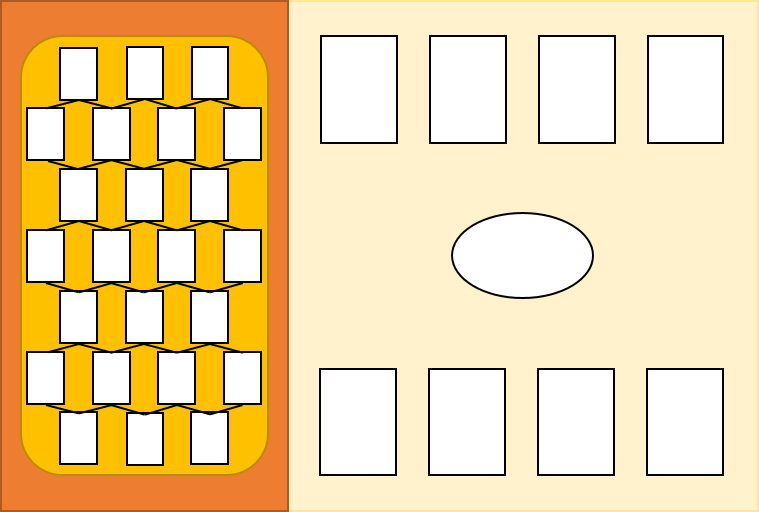
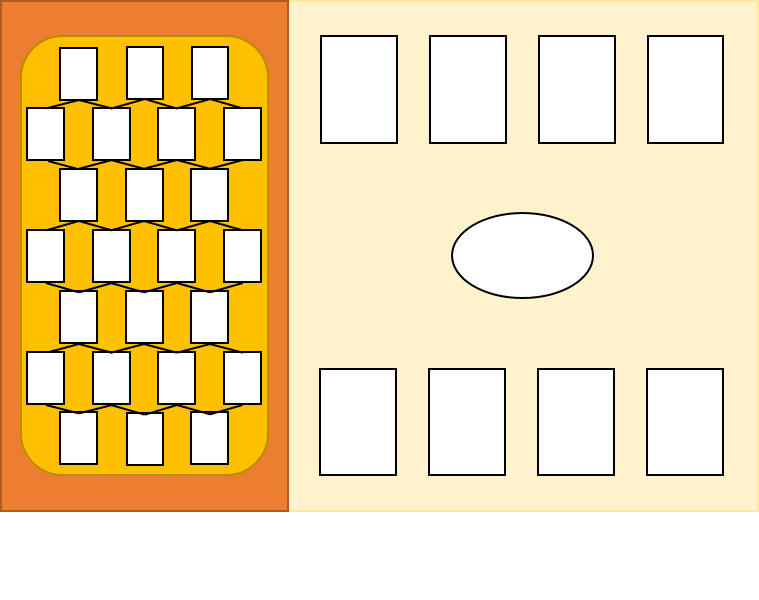
2017-05-26 backup

diff --git a/RCK.py b/RCK.py
@@ -3,7 +3,7 @@ from pygame.locals import *
 
 FPS = 30 # 초당 프레임
 WINDOWWIDTH = 759 # 윈도우의 너비 (이하 픽셀 단위)
-WINDOWHEIGHT = 512 # 윈도우의 높이
+WINDOWHEIGHT = 600 # 윈도우의 높이
 CARDWIDTH = 77 # 카드의 너비
 CARDHEIGHT = 108 # 카드의 높이
 CARDGAPWIDTH = 32 #카드 사이의 가로 간격
@@ -33,12 +33,15 @@ HIGHLIGHTPIECECOLOR2 = YELLOW
 ROCK = 'rock'
 SCISSOR = 'scissor'
 PAPER = 'paper'
-
+PLAYER1 = 0
+PLAYER2 = 1
     
 def main():
-    global DISPLAYSURF, ROCKCARD, SCISSORCARD, PAPERCARD
+    global DISPLAYSURF, FPSCLOCK, BOARD, UNCLICKEDBUTTON, CLICKEDBUTTON
+    global ROCKCARD, SCISSORCARD, PAPERCARD
     global ROCKPIECE_0, SCISSORPIECE_0, PAPERPIECE_0, ROCKPIECE_1, SCISSORPIECE_1, PAPERPIECE_1
-
+    global PLAYER1WIN, PLAYER2WIN
+    
     pygame.init()
     FPSCLOCK = pygame.time.Clock()
     DISPLAYSURF = pygame.display.set_mode((WINDOWWIDTH, WINDOWHEIGHT))
@@ -48,7 +51,7 @@ def main():
     ROCKCARD = pygame.image.load('rockCard.png')
     SCISSORCARD = pygame.image.load('scissorCard.png')
     PAPERCARD = pygame.image.load('paperCard.png')
-    BUTTON = pygame.image.load('okButton.png')
+    UNCLICKEDBUTTON = pygame.image.load('okButton.png')
     CLICKEDBUTTON = pygame.image.load('okButtonClicked.png')
     ROCKPIECE_0 = pygame.image.load('rockPiece0.png')
     SCISSORPIECE_0 = pygame.image.load('scissorPiece0.png')
@@ -56,22 +59,69 @@ def main():
     ROCKPIECE_1 = pygame.image.load('rockPiece1.png')
     SCISSORPIECE_1 = pygame.image.load('scissorPiece1.png')
     PAPERPIECE_1 = pygame.image.load('paperPiece1.png')    
+    PLAYER1WIN = pygame.image.load('player1win.png')
+    PLAYER2WIN = pygame.image.load('player2win.png')
+
+    #while True:
+    #    if runGame() == False:
+    #        break
+    runGame()
     
-    mousex = 0 # 마우스 이벤트 발생 시 x좌표
-    mousey = 0 # 마우스 이벤트 발생 시 y좌표
+def runGame():
+    #
+    global mainCards, mainPiece
+    global PLAYER1WIN, PLAYER2WIN
 
     mainCards = getRandomizedCards() # 카드 정보(상대: [0][0:4], 자신: [1][0:4])
     mainPiece = pieceSetting() # 말 정보
+
+    turn = random.choice([PLAYER1, PLAYER2])
+
+    while True:
+        if turn == PLAYER1:
+            oneTurn(PLAYER1)
+            if isWinner(mainPiece, PLAYER1):
+                winningImg = PLAYER1WIN
+                break
+            turn = PLAYER2
+        elif turn == PLAYER2:
+            oneTurn(PLAYER2)
+            if isWinner(mainPiece, PLAYER2):
+                winningImg = PLAYER2WIN
+                break
+            turn = PLAYER1
+
+    while True:
+        DISPLAYSURF.blit(winningImg, (0, 0))
+        pygame.display.update()
+        FPSCLOCK.tick(FPS)
+        for event in pygame.event.get():
+            if event.type == QUIT or (event.type == KEYUP and event.key == K_ESCAPE):
+                pygame.quit()
+                sys.exit()
+            elif event.type == MOUSEBUTTONUP:
+                return
+        
+            
+
+def oneTurn(player):
+    # 
+    global DISPLAYSURF, FPSCLOCK, BOARD, UNCLICKEDBUTTON, CLICKEDBUTTON
+    global mainCards, mainPiece
+
+    mousex = 0 # 마우스 이벤트 발생 시 x좌표
+    mousey = 0 # 마우스 이벤트 발생 시 y좌표
+    
     usedCard = makeUsedCardData(False) # 해당 위치의 카드가 사용되었는지 확인
     clickedPiece = makeClickedPieceData(False) # 해당 위치의 말이 클릭되었는지 확인
     showedPiece = makeClickedPieceData(False) # 해당 위치의 말이 이동 가능한 경로인지 확인
-    
     buttonPushed = False # '확인' 버튼의 눌러짐 여부
     firstSelection = None # 처음 고른 카드의 종류 = 움직일 말과 카드의 종류
     selectedCardNum = 0 # 고른 카드의 갯수 = 말 움직이기의 남은 횟수
     pieceClicked = False # 말의 클릭 여부
     beforeMovePiece = [0, 0] # 클릭 된 말의 이동 전 좌표
-                                 
+    BUTTON = UNCLICKEDBUTTON
+                             
     while True: # 게임 루프        
         mouseClicked = False # 마우스 클릭 여부
 
@@ -95,7 +145,7 @@ def main():
 
         cardi, cardj = getCardAtPixel(mousex, mousey)
         # (사용: 카드를 클릭해서 하이라이트가 유지되는 상태, 선택: 마우스가 카드 위에 있으나 클릭은 하지 않은 상태)
-        if cardi != None and cardj != None and cardi ==1 and not buttonPushed: # 마우스가 카드 위에 있고 확인 버튼이 클릭되지 않았을 때
+        if cardi != None and cardj != None and cardi == player and not buttonPushed: # 마우스가 카드 위에 있고 확인 버튼이 클릭되지 않았을 때
             if not usedCard[cardi][cardj]: # 카드가 사용되지 않았을 때
                 if firstSelection == None or mainCards[cardi][cardj] == firstSelection:
                     drawHighlightCard(cardi, cardj, HIGHLIGHTCARDCOLOR)
@@ -119,7 +169,7 @@ def main():
             BUTTON = CLICKEDBUTTON
         
         piecei, piecej = getPieceAtPixel(mousex, mousey)
-        if piecei != None and piecej != None and mainPiece[piecei][piecej][1] and buttonPushed and mainPiece[piecei][piecej][0] == firstSelection and selectedCardNum > 0: # 마우스가 올바른 말 위에 있고 말이 이동 가능할 때
+        if piecei != None and piecej != None and mainPiece[piecei][piecej][1] == player and buttonPushed and mainPiece[piecei][piecej][0] == firstSelection and selectedCardNum > 0: # 마우스가 올바른 말 위에 있고 말이 이동 가능할 때
             if not clickedPiece[piecei][piecej] and not pieceClicked:
                 drawHighlightPiece(piecei, piecej, HIGHLIGHTPIECECOLOR1)
                 if mouseClicked:
@@ -140,8 +190,12 @@ def main():
             showedPiece = makeClickedPieceData(False)
             clickedPiece = makeClickedPieceData(False)
             pieceClicked = False
-            selectedCardNum -= 1             
-            
+            selectedCardNum -= 1
+        if buttonPushed and selectedCardNum == 0:
+            fillUsedCard(mainCards, usedCard)
+            BUTTON = UNCLICKEDBUTTON
+            break
+        
         pygame.display.update()
         FPSCLOCK.tick(FPS)
 
@@ -190,8 +244,7 @@ def drawHighlightCard(cardi, cardj, color):
 def makeUsedCardData(val):
     # 전달된 값을 2*4 리스트에 저장한다.
     usedCard = []
-    for i in range(2):
-        usedCard.append([val] * 4)
+    for i in range(2):        usedCard.append([val] * 4)
     return usedCard
 
 def makeClickedPieceData(val):
@@ -229,14 +282,15 @@ def drawRCKPiece(whichpiece, whosepiece, left, top):
     elif whichpiece == PAPER and whosepiece == 1:
         DISPLAYSURF.blit(PAPERPIECE_1, (left, top))
 
-def fillUsedCard(usedCard):
+def fillUsedCard(cards, usedCard):
     # 사용한 카드를 확인하고 새로 채워 넣는다.
-    left = LEFTCARDXPOS
-    top = LEFTCARDYPOS
-    for check in usedCard:
-        if check == 1:
-            drawCard(left, top)
-        left += (CARDWIDTH + CARDGAPWIDTH)
+    for cardi in range(2):
+        for cardj in range(4):
+            if usedCard[cardi][cardj]:
+                cards[cardi][cardj] = selectRCK()
+                drawCard(cards)
+                usedCard[cardi][cardj] = 0
+        
 
 def drawCard(cards):
     # 저장된 카드정보를 그리기 함수에 전달한다.
@@ -271,7 +325,7 @@ def showUsedCard(usedCard):
                 drawHighlightCard(cardi, cardj, HIGHLIGHTCARDCOLOR)
 
 def showShowedPiece(clickedPiece, piece):
-    #
+    # 클릭된 말의 이동 가능 경로를 보여준다.
     for piecei in range(7):
         for piecej in range(4):
             if clickedPiece[piecei][piecej]:
@@ -319,6 +373,7 @@ def isButtonPushed(x, y):
         return False
 
 def myPieceWin(mypiece, yourpiece):
+    # 두 말을 비교해 전자가 이기면 1, 아니면 0을 전달한다.
     if mypiece[1] == yourpiece[1]:
         return 0                       
     elif mypiece[0] == ROCK:
@@ -338,10 +393,12 @@ def myPieceWin(mypiece, yourpiece):
             return 0
 
 def drawHighlightPiece(piecei, piecej, color):
+    # 선택된 말 주변에 지정된 색을 그린다.
     left, top = getPixelAtPiece(piecei, piecej)
     pygame.draw.rect(DISPLAYSURF, color, (left - 0.5, top - 0.5, PIECEWIDTH + 2, PIECEHEIGHT + 2), 3)
 
 def showPossibleWay(piece, piecei, piecej):
+    # 한 말을 주변으로 이동 가능한 경로를 계산하고 맞으면 하이라이트를 그린다.
     jdiffstart = (piecei % 2) * (-1)
     for idiff in range(-1, 2, 2):
         for jdiff in range(jdiffstart, jdiffstart + 2):
@@ -353,6 +410,7 @@ def showPossibleWay(piece, piecei, piecej):
                 drawHighlightPiece(showi, showj, HIGHLIGHTPIECECOLOR2)
 
 def getShowedPiece(piece, piecei, piecej):
+    # showedPiece 리스트를 생성한다.
     showedPiece = makeClickedPieceData(False)
     jdiffstart = (piecei % 2) * (-1)
     for idiff in range(-1, 2, 2):
@@ -366,13 +424,21 @@ def getShowedPiece(piece, piecei, piecej):
     return showedPiece
 
 def movePiece(piece, beforepiecei, beforepiecej, afterpiecei, afterpiecej):
+    # 말을 움직인다.
     piece[afterpiecei][afterpiecej] = piece[beforepiecei][beforepiecej]
     piece[beforepiecei][beforepiecej] = [0, 0]
-    
-# 마우스로 좌표를 입력받아 카드가 있으면 띠를 두르고
-# 사용하면 사라지게 한다.
-# 그 후 fillUsedCard 함수를 사용하여 채워넣는다.
-    
+
+def isWinner(piece, player):
+    # 게임 종료를 확인한다.
+    oppenentpaper = 0
+    for cardi in range(7):
+        for cardj in range(4):
+            if piece[cardi][cardj] == [PAPER, not player]:
+                oppenentpaper = 1
+    if not oppenentpaper:
+        return True
+
+                    
 
 if __name__ == '__main__':
-    main()            
+    main()    

diff --git a/README.md b/README.md
@@ -14,5 +14,6 @@
 
 ## 버전 설명
 
-2017-05-24  backup: 한 턴 동안 플레이어가 할 수 있는 행동(카드 선택, 말 이동)을 구현했다.
+- 2017-05-24  backup: 한 턴 동안 플레이어가 할 수 있는 행동(카드 선택, 말 이동)을 구현했다.
 
+- 2017-05-26 backup: 턴 넘기고, 게임 종료까지 완성. 게임 종료 후에 프로그램이 멈춰버림.
